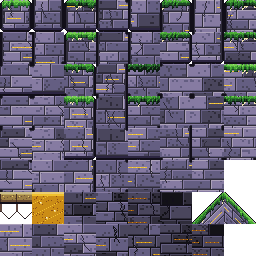
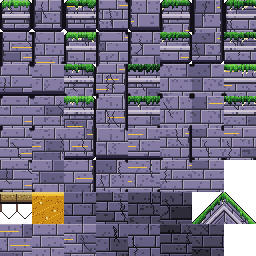
Pass 556: brick fields with structure
The ashlar of the Spires and the brick of the Inner Rings and the gym share
one body value with the odd worn stone; the gold inlay of the Spires stays
out of the darkened tiers; a masonry floor carries a string course under its
cap. Design bible 12.46.

diff --git a/tools/art/tilegen.py b/tools/art/tilegen.py
@@ -141,6 +141,62 @@ def masonry_shade(x, y, seed, dark, body, light, cell=16):
     return body
 
 
+# One body value, the odd worn block (design bible 12.45, pass 555). The Tower's
+# plates and Vorrhallow's blocks used to take one of two values on a coin toss,
+# so a field read as a checkerboard a whole shade deep, loudest in the darkened
+# interior tiers (independent grade, passes 540 and 550: "frame tiles repeat on a
+# loud grid, Tower and Vorrhallow checkered stone"). Most blocks now share the
+# body value and about one in seven is worn a shade darker.
+WORN_BLOCK = 0.86
+# The share of Vorrhallow's tiles that carry the teal tide stain. Drawn in every
+# tile it ruled a stripe across the field every 16 world pixels.
+TIDE_TILES = 0.35
+# build_tileset paints the 47 blob tiles with seeds 11 to 57 and the interior
+# tiles (MID, DEEP and the row-7 variants) with seeds from 101. Only those carry
+# the tide stain: an edge tile has no variants, so a stain on one repeats down
+# every wall face and pillar.
+INTERIOR_SEED = 101
+
+
+# The share of bricks that stand a shade proud (paint_bricks).
+PROUD_BRICK = 0.92
+
+
+def is_interior(seed):
+    """True for the seeds build_tileset gives the darkened interior tiers (MID
+    and DEEP in row 6, and their row-7 variants). The surface tiles and their
+    row-7 variants (201 to 203) are not interior."""
+    return INTERIOR_SEED <= seed < 200 or seed >= 211
+
+
+# A string course under the cap of a masonry floor (design bible 12.46, pass
+# 556): a lit line, a band of dressed stone and a shadow line, straight across
+# every top tile, so a floor reads as built (a coping on a wall) and not as a
+# brick fill that stops at the grass. World-pixel rows from the tile's top.
+COURSE_TOP = 7
+COURSE_ROWS = 3
+COURSE_ZONES = ("spires", "trials", "gym")
+
+
+def string_course(img, ox, oy, seed, x0, x1, ramp):
+    y0 = COURSE_TOP * D
+    y1 = y0 + COURSE_ROWS * D
+    for x in range(x0, x1):
+        for y in range(y0, y1):
+            if y < y0 + D:
+                col = f"{ramp}-6"
+            elif y >= y1 - D:
+                col = f"{ramp}-1"
+            else:
+                col = f"{ramp}-5" if hash2(x // 2, y // 2, seed + 41) > 0.12 else f"{ramp}-4"
+            img.putpixel((ox + x, oy + y), c(col))
+        # A butt joint now and then, so the course is laid stones and not a pipe.
+    for x in range(x0, x1):
+        if hash2(x // D, 3, seed + 43) > 0.95:
+            for y in range(y0 + D, y1 - D):
+                img.putpixel((ox + x, oy + y), c(f"{ramp}-2"))
+
+
 def paint_bricks(img, ox, oy, seed, ramp):
     """Masonry: rows of 8x4 world-pixel bricks offset per row, lit from the top
     left, with a one-render-pixel mortar line and a grain of tiny pits.
@@ -165,8 +221,9 @@ def paint_bricks(img, ox, oy, seed, ramp):
             bx = sx // bw
             by = row
             lx, ly = sx % bw, yy % bh
-            shade = 3 if hash2(bx, by, seed) > 0.45 else 2
-            if hash2(bx, by, seed + 9) > 0.92:
+            # One body value, the odd worn or proud brick (bible 12.46).
+            shade = 2 if hash2(bx, by, seed) > WORN_BLOCK else 3
+            if hash2(bx, by, seed + 9) > PROUD_BRICK:
                 shade = 4
             if ly == bh - 1 or lx == 0:
                 col = f"{ramp}-1"
@@ -195,16 +252,15 @@ def paint_shrine(img, ox, oy, seed, ramp):
     # Course scale varies with the seed so adjacent scattered variants differ.
     bw = (10 + int(hash2(seed, 7, 91) * 5)) * D  # 10..14 blocks wide
     bh = (5 + int(hash2(seed, 8, 92) * 3)) * D   # 5..7 blocks tall
+    gold = not is_interior(seed)  # the inlay is surface dressing (bible 12.46)
     for y in range(T):
         row = y // bh
         for x in range(T):
             sx = x + (row % 2) * (bw // 2) + int(hash2(row, 0, seed) * 4) * D
             bx, ly, lx = sx // bw, y % bh, sx % bw
-            shade = 4 if hash2(bx, row, seed) > 0.5 else 3
-            # A weathered stone here and there drops a shade, so the field carries
-            # block-scale value variation instead of a flat two-tone repeat.
-            if hash2(bx, row, seed + 11) > 0.82:
-                shade = max(2, shade - 1)
+            # One body value, the odd worn block (bible 12.46): a coin toss between
+            # two values made the darkened deep tiers a checkerboard.
+            shade = 3 if hash2(bx, row, seed) > WORN_BLOCK else 4
             if ly == bh - 1 or lx == 0:
                 col = f"{ramp}-1"
             elif ly == 0 or lx == 1:
@@ -218,7 +274,7 @@ def paint_shrine(img, ox, oy, seed, ramp):
             # Gold inlay: a groove across the middle of a few blocks. Rare and
             # keyed per block (not a regular course), so it reads as scattered
             # accents, never a gold dash marching across every row.
-            if ly == bh // 2 and 3 <= lx < bw - 3 and hash2(bx, row, seed + 7) > 0.82:
+            if gold and ly == bh // 2 and 3 <= lx < bw - 3 and hash2(bx, row, seed + 7) > 0.82:
                 col = "gold-4" if lx % 4 else "gold-5"
             img.putpixel((ox + x, oy + y), c(col))
     # A crack or two, running down and sideways.
@@ -230,23 +286,6 @@ def paint_shrine(img, ox, oy, seed, ramp):
                     img.putpixel((ox + x, oy + y), c(f"{ramp}-1"))
                 y += 1
                 x += 1 if hash2(seed, step, 34 + k) > 0.6 else (-1 if hash2(seed, step, 35 + k) > 0.7 else 0)
-
-
-# One body value, the odd worn block (design bible 12.45, pass 555). The Tower's
-# plates and Vorrhallow's blocks used to take one of two values on a coin toss,
-# so a field read as a checkerboard a whole shade deep, loudest in the darkened
-# interior tiers (independent grade, passes 540 and 550: "frame tiles repeat on a
-# loud grid, Tower and Vorrhallow checkered stone"). Most blocks now share the
-# body value and about one in seven is worn a shade darker.
-WORN_BLOCK = 0.86
-# The share of Vorrhallow's tiles that carry the teal tide stain. Drawn in every
-# tile it ruled a stripe across the field every 16 world pixels.
-TIDE_TILES = 0.35
-# build_tileset paints the 47 blob tiles with seeds 11 to 57 and the interior
-# tiles (MID, DEEP and the row-7 variants) with seeds from 101. Only those carry
-# the tide stain: an edge tile has no variants, so a stain on one repeats down
-# every wall face and pillar.
-INTERIOR_SEED = 101
 
 
 def paint_drowned(img, ox, oy, seed, ramp):
@@ -706,6 +745,8 @@ def paint_tile(img, ox, oy, mask, zone, seed):
             cap_girder(img, ox, oy, seed, x0, x1, ramp)
         else:
             cap_stone(img, ox, oy, seed, x0, x1, ramp)
+        if zone in COURSE_ZONES:
+            string_course(img, ox, oy, seed, x0, x1, ramp)
     # Inner corners: a dark notch where two solid sides meet an open diagonal.
     for bit, a, b, px, py in [(NE, N, E, T - D, 0), (SE, S, E, T - D, T - D), (SW, S, W, 0, T - D), (NW, N, W, 0, 0)]:
         if mask & a and mask & b and not mask & bit:

diff --git a/docs/loop/pass-556.md b/docs/loop/pass-556.md
@@ -1,0 +1,82 @@
+# Pass 556: brick fields with structure
+
+## Category
+
+Art cohesion, from the independent grade taken after pass 555 (4.2/10): "brick fields (Spires,
+Vorrhallow, Sunken, Trials) read as a flat tile-editor fill with random dark missing bricks and no
+structure", and pass 555's own "Not done": the Spires' deep tiers still alternated two values.
+
+No note from Sean was new. The queue's first item (lighting and depth) is parked for a watched
+session. Its second and third (the Haar Wyrm fight frame, the Haar's fog on the drowned stair) touch
+files that two unmerged branches of other sessions change (`hydra-cistern-fight`, `haar-steam`), so
+the pass took the fourth. The PixelLab art loop stays **gated** on Sean: three guardian bases (Haar
+Wyrm, Thane Vorrund, Drowned Warden) wait for his OK, the limit of three. No PixelLab generations
+were spent, and no Autosprite credits. The hosted workbench is still down (its Vercel Blob store is
+suspended: `push.py` answers HTTP 500); it stays under "stuck" for Sean.
+
+This pass took over a lock left at 19:16 by a run that was cut off before it branched; nothing of
+it was in the working tree.
+
+## Audit
+
+- Shot `spires/broken_shrine` and `trials/walls`. In the Spires the wall depth under the floor and
+  in the right-hand cliff was a near-black checkerboard with orange dashes: the loudest area of the
+  frame, and not the play field.
+- `paint_shrine` chose shade 4 or 3 with a coin toss, then dropped 18% of blocks one more. After the
+  two-step darkening of the deep tier that is three values down to near-black. The gold inlay, two
+  steps down, stays orange.
+- Measured the share of each tier's pixels on its commonest colour. Spires: 36%, 34% and 40% (two
+  values near a third each). Trials and gym brick: 32 to 33%, with two more colours at about 25%.
+- No masonry floor had any built line: the fill ran up to the cap and stopped.
+
+## What was built
+
+- **`tools/art/tilegen.py`**: `paint_shrine` and `paint_bricks` use `WORN_BLOCK` (one body value,
+  about one worn stone in seven; a brick may stand proud, `PROUD_BRICK`); `is_interior(seed)` and
+  no gold inlay in the darkened tiers; `string_course` under the cap of every top tile in
+  `COURSE_ZONES` (Spires, Inner Rings, gym).
+- `assets/tiles/spires.png`, `trials.png` and `gym.png` regenerated. The script again rewrote five
+  `assets/bg/*_mid.png` files that differ from run to run; those were put back.
+- Design bible 12.46 (new).
+
+## Judged by eye
+
+Looked at `spires/broken_shrine` and `trials/walls` at 1x before and after. The Spires' wall depth
+is coursed stone that darkens inward, with no checker and no orange in the dark; the eye goes to the
+islands and the hero. In the Inner Rings each pillar has a pale capital under its cap and the floor
+a coping line, and the brick is a little quieter. The Spires' course is faint under the moss and the
+rain at 1x.
+
+Not done: a plinth where a wall meets a floor, cracks and moss in the field, and Vorrhallow and the
+Sunken Spring (the same grade item). The brick of the Inner Rings is still a fine uniform bond.
+
+## Tests
+
+`tests/test_brick_structure.gd`, four tests (24 checks): the Spires' body value takes about half of
+every tier; the brick's body value leads its tier in the Inner Rings and the gym; the mid and deep
+Spires tiers have no gold and the surface keeps some; a floor tile's string course is one lit line
+over one shadow line across the whole tile, and no interior tile carries it.
+
+Mutation check: with the three old atlases put back, all four tests fail (3, 6, 2 and 6 checks).
+
+## Rubric (design bible 15.3)
+
+| Category | Weight | Score | Notes |
+| --- | --- | --- | --- |
+| Movement feel | 20 | 99 | Unchanged. |
+| Combat and enemies | 15 | 99 | Unchanged. |
+| World and level design | 15 | 99 | Unchanged; one-template rooms and the empty mid-ground remain. |
+| Art cohesion | 15 | 98 | The Spires' wall depth is quiet and masonry floors have a course. The HD hero and the guardian bases (gated art loop) remain. |
+| Bosses | 10 | 99 | Unchanged. |
+| Systems | 10 | 99 | Unchanged. |
+| Audio | 5 | 99 | Unchanged. |
+| Stability and performance | 5 | 99 | Unchanged. |
+| Story and world | 5 | 99 | Unchanged. |
+
+Weighted: 98.85. Full suite: 15,098 checks passed, 0 failed.
+
+## Next
+
+Art cohesion again, by the pass 555 grade: the rest of this item (a plinth, cracks and moss, and
+Vorrhallow and the Sunken Spring), or Vorrhallow and the Evercrown's narrow value range with one
+accent reserved for hazards. The Haar items wait until the hydra and steam branches merge.

diff --git a/docs/design-bible.md b/docs/design-bible.md
@@ -2133,6 +2133,18 @@ The pass 550 grade (and the pass 540 one before it) said the frame tiles "repeat
 
 Only `assets/tiles/tower.png`, `vorrhallow.png` and `boughs.png` are regenerated. Collision, edges, caps and outlines are untouched. `tests/test_calm_frame_tiles.gd` holds all four: under a quarter of the Tower's and Vorrhallow's interior blocks are worn and at least two are, the tide stain is on at most half the interior tiles and on no wall face, the bough fill changes colour between under 23% of neighbouring pixels and hardly at all down a column, and cells one to eight apart along a row or down a column match about as often as chance.
 
+### 12.46 Brick fields with structure: one body, a string course, gold on the surface (pass 556)
+
+The pass 555 grade said the brick fields of the Spires and the Inner Rings "read as a flat tile-editor fill with random dark missing bricks and no structure", and pass 555 left the Spires' deep tiers alternating two values. This applies 12.45's rule to the two brick painters it had not reached, and gives a masonry floor one built line.
+
+- **One body value.** `paint_shrine` (the Spires) and `paint_bricks` (the Inner Rings and the gym) chose each stone's value with a coin toss, and the shrine dropped a further fifth of its blocks a shade. Darkened for the interior tiers (12.8), the Spires' wall depth was a near-black checkerboard. Both now use `WORN_BLOCK`: one body value and about one worn stone in seven. A brick may still stand a shade proud (`PROUD_BRICK`, about one in twelve); an ashlar block may not.
+- **The gold inlay is surface dressing.** Two shades down, the Spires' inlay was orange dashes on near-black, the loudest thing in a wall's depth. `is_interior(seed)` names the seeds of the darkened tiers, and `paint_shrine` draws no gold there. Edge tiles and the surface variants keep it.
+- **A string course under the cap.** Every top tile of a masonry zone (`COURSE_ZONES`: the Spires, the Inner Rings, the gym) carries a course of dressed stone 7 world pixels under its top: a lit line, a pale band with the odd butt joint, and a shadow line. It runs straight across a floor and caps a pillar like a capital, so a floor reads as built and not as a fill that stops at the grass. Tiles inside a wall carry none. Hearthroot's ground is PixelLab art and is untouched.
+
+Only `assets/tiles/spires.png`, `trials.png` and `gym.png` are regenerated; collision and edges are untouched. `tests/test_brick_structure.gd` holds it: the Spires' body value takes about half of every tier, the brick's body value leads its tier, the mid and deep tiers have no gold while the surface keeps some, and a floor tile's course is one lit line over one shadow line that no interior tile carries.
+
+Not done from that grade item: a plinth where a wall meets a floor, cracks and moss in the field, and the same treatment for Vorrhallow and the Sunken Spring.
+
 ## 13. Asset Production Plan
 
 ### 13.1 Tools and when to use each
